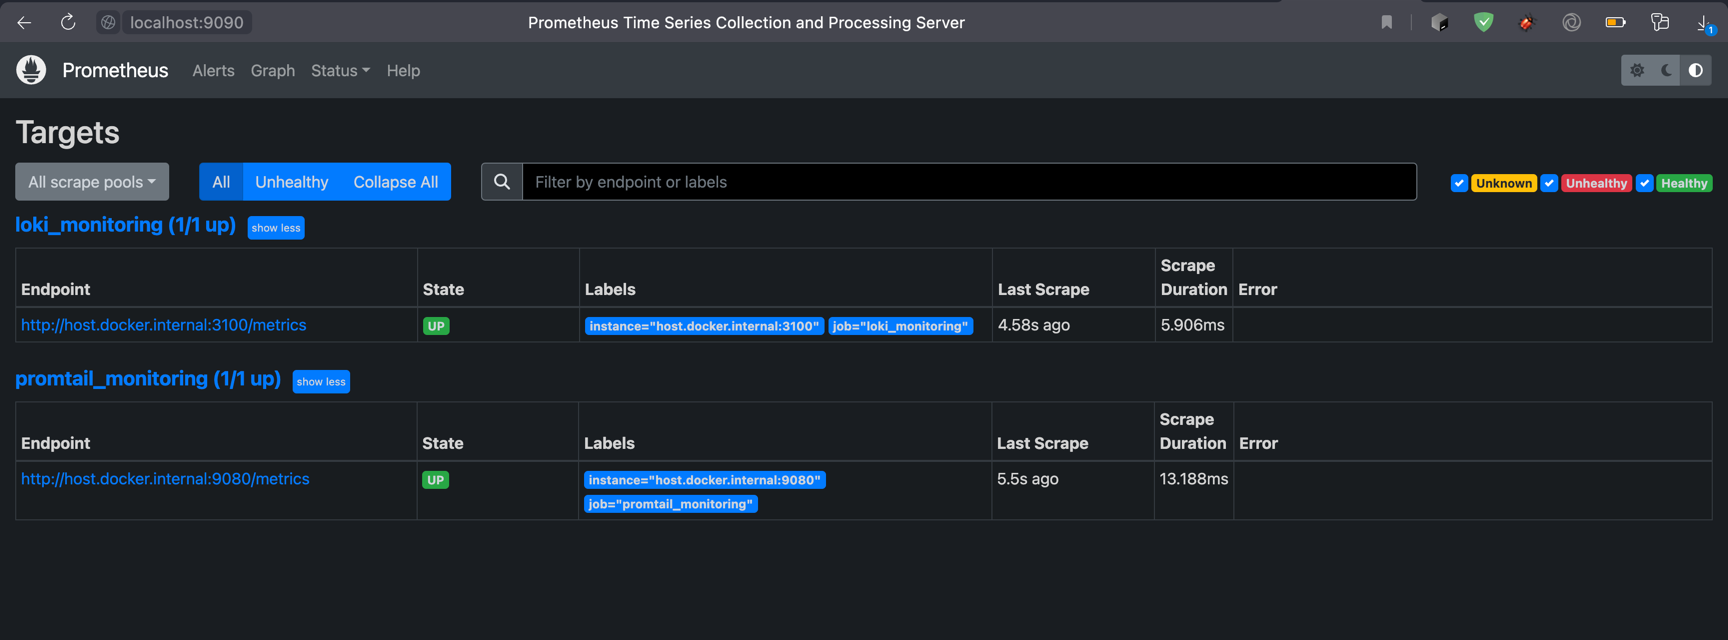
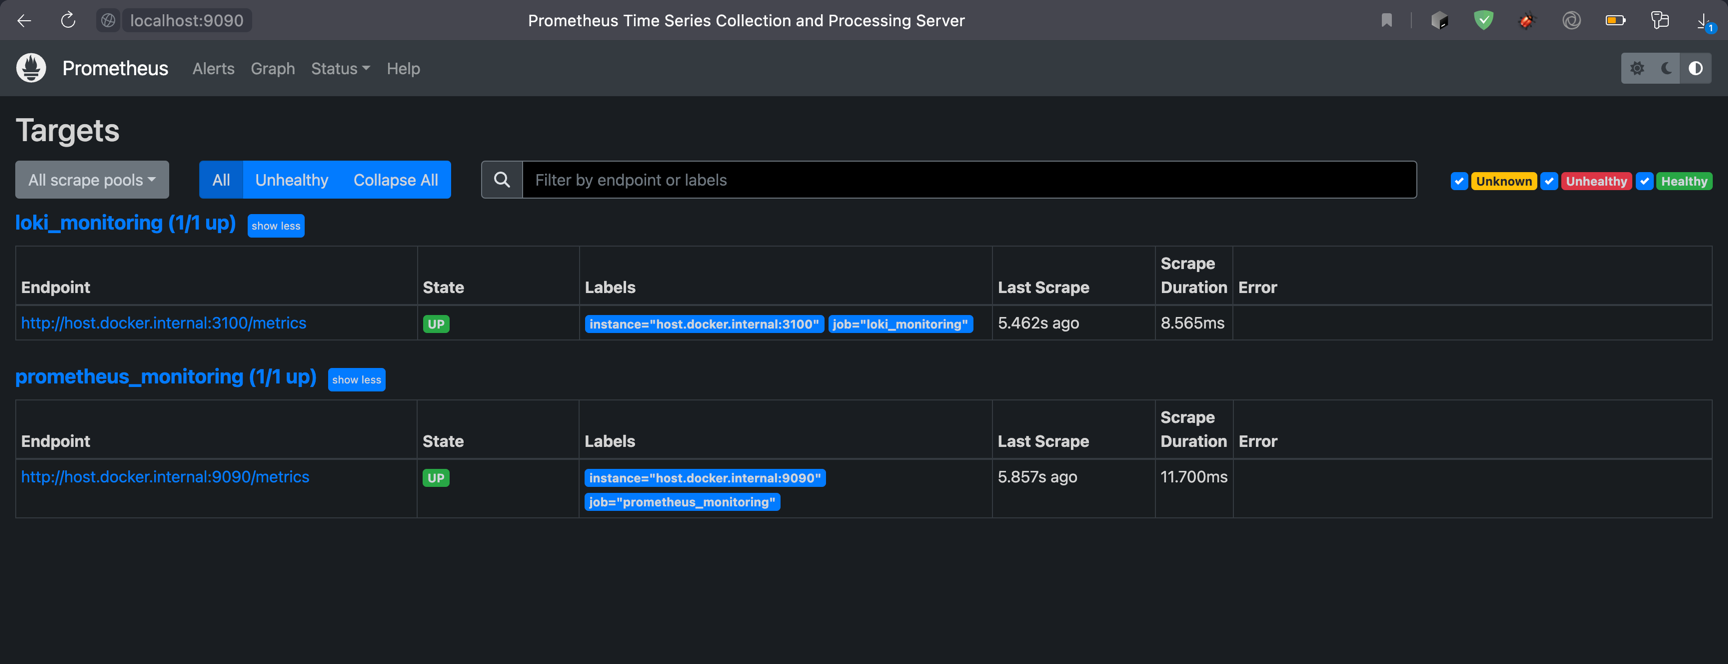
Replaces promtail metrics to prometheus metrics

diff --git a/monitoring/METRICS.md b/monitoring/METRICS.md
@@ -8,4 +8,4 @@
 
 
 ### Scraped Promtail metrics:
-![scraped_promtail_metrics.png](scraped_promtail_metrics.png)
+![scraped_prometheus_metrics.png](resources/scraped_prometheus_metrics.png)
